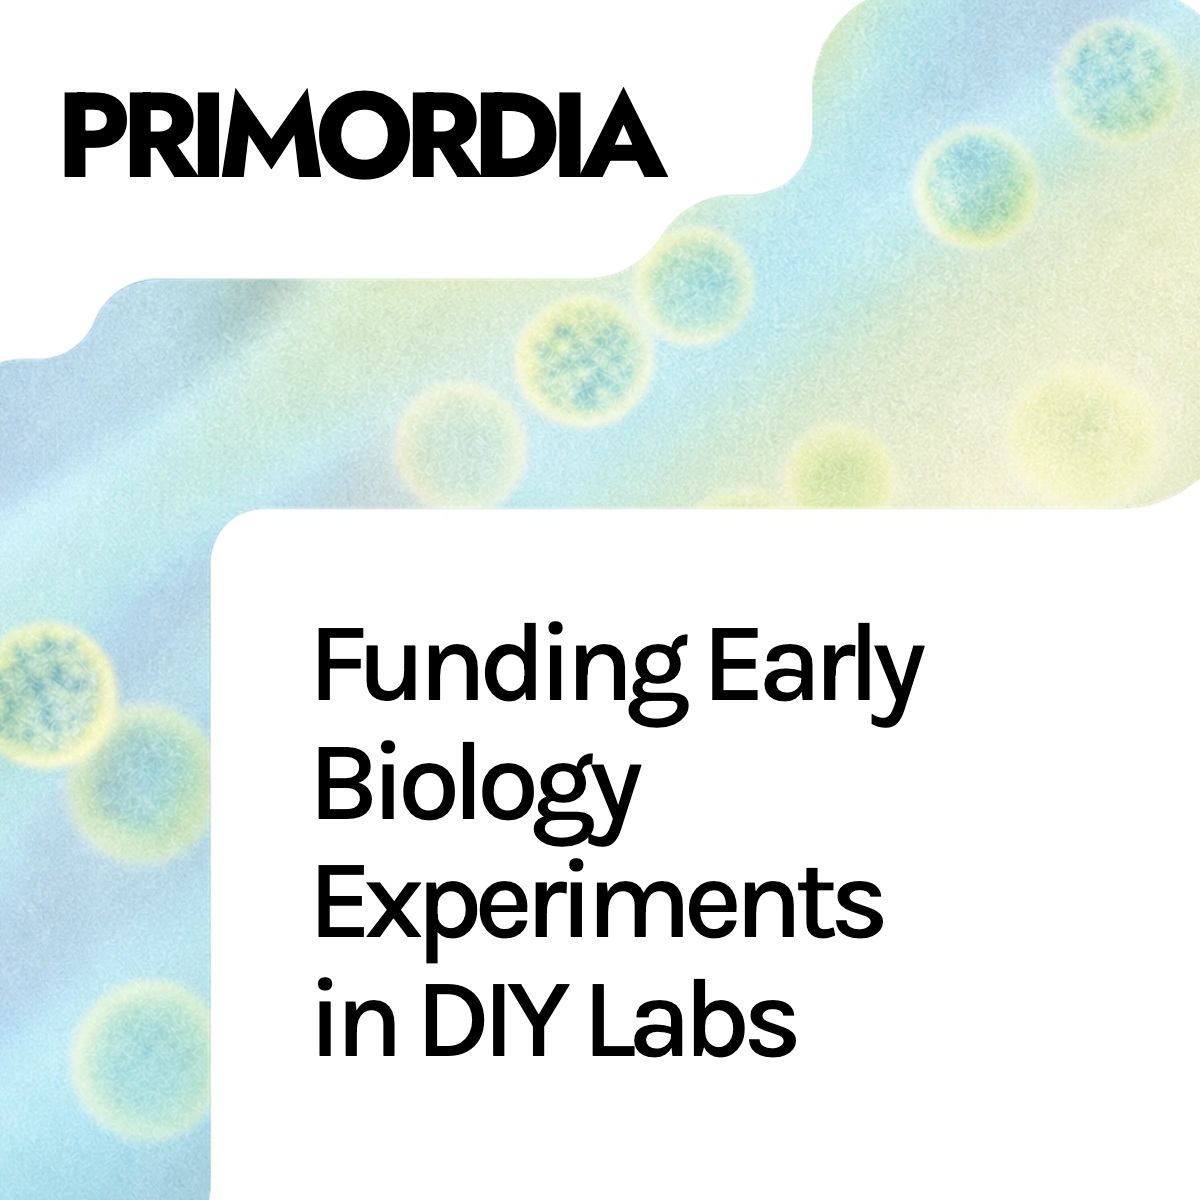
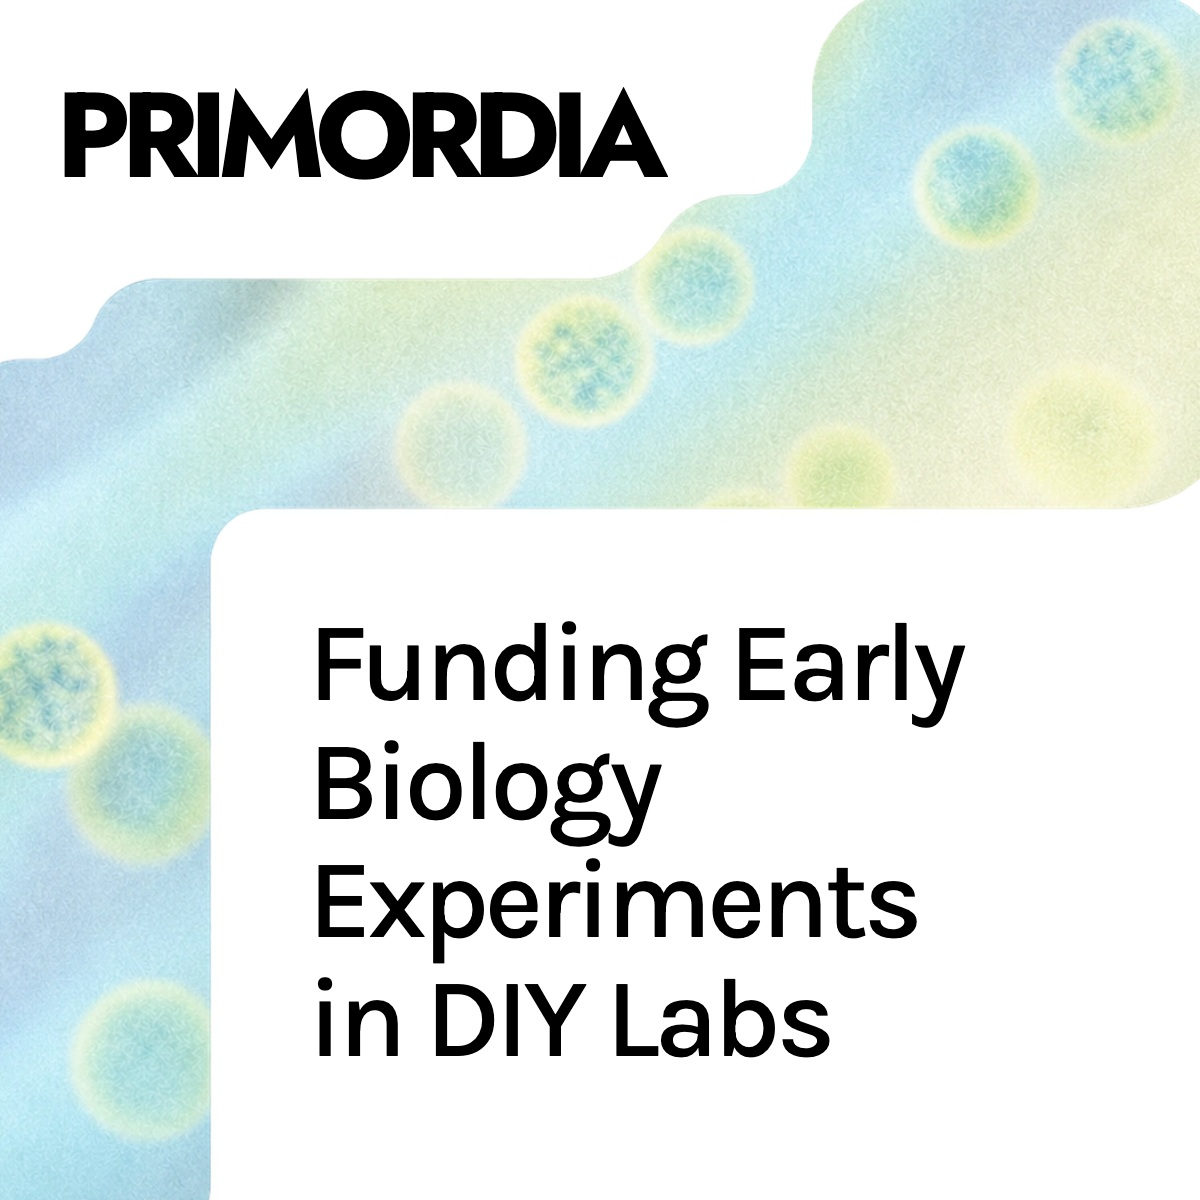
Align sharing headlines within the artwork opening

Changed region(s): [[0.2775, 0.4933, 0.8017, 0.8942]]

diff --git a/tools/social-cards.html b/tools/social-cards.html
@@ -10,18 +10,18 @@
     .card { position: relative; width: 1200px; height: 630px; overflow: hidden; color: black; background: white; }
     .art { position: absolute; width: 1350px; height: auto; left: -85px; top: -20px; }
     h1, h2 { position: absolute; margin: 0; }
-    /* Preserve the website's wordmark and headline tracking. */
+    /* Preserve the wordmark; give small-format headline lettering more air. */
     h1 { left: 48px; top: 28px; font: 700 122px/1 Jost, sans-serif; letter-spacing: -.08em; white-space: nowrap; }
-    h2 { right: 48px; top: 395px; font: 500 62px/1.08 Karla, sans-serif; letter-spacing: -.07em; text-align: right; }
+    h2 { left: 624px; right: 40px; top: 398px; font: 500 60px/1.1 Karla, sans-serif; letter-spacing: -.04em; text-align: left; }
     h2 span { display: block; white-space: nowrap; }
     .square { height: 1200px; }
     .square .art { width: 1280px; left: -40px; top: -180px; }
     .square h1 { left: 56px; top: 76px; font-size: 120px; }
-    .square h2 { left: 308px; right: 56px; top: 604px; font-size: 112px; line-height: 1.06; text-align: left; }
+    .square h2 { left: 308px; right: 56px; top: 604px; font-size: 112px; line-height: 1.06; }
     .x { height: 600px; }
     .x .art { top: -35px; }
     .x h1 { top: 20px; font-size: 116px; }
-    .x h2 { top: 375px; font-size: 60px; }
+    .x h2 { top: 378px; font-size: 58px; }
   </style>
 </head>
 <body>
